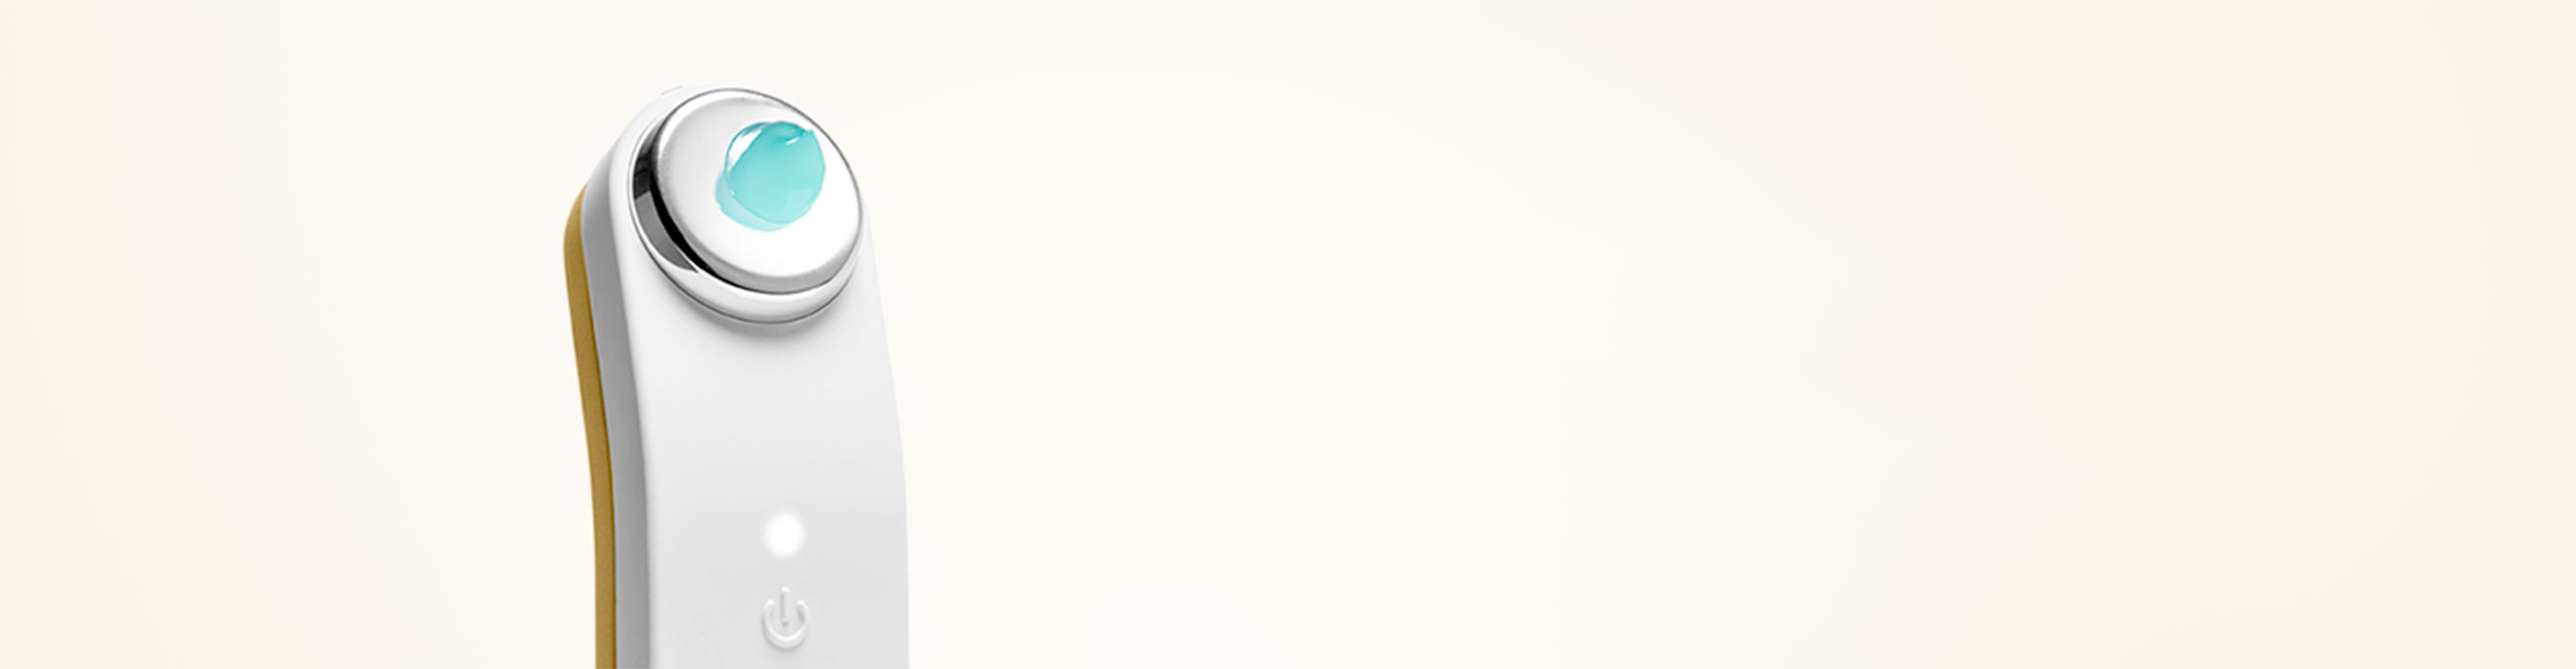
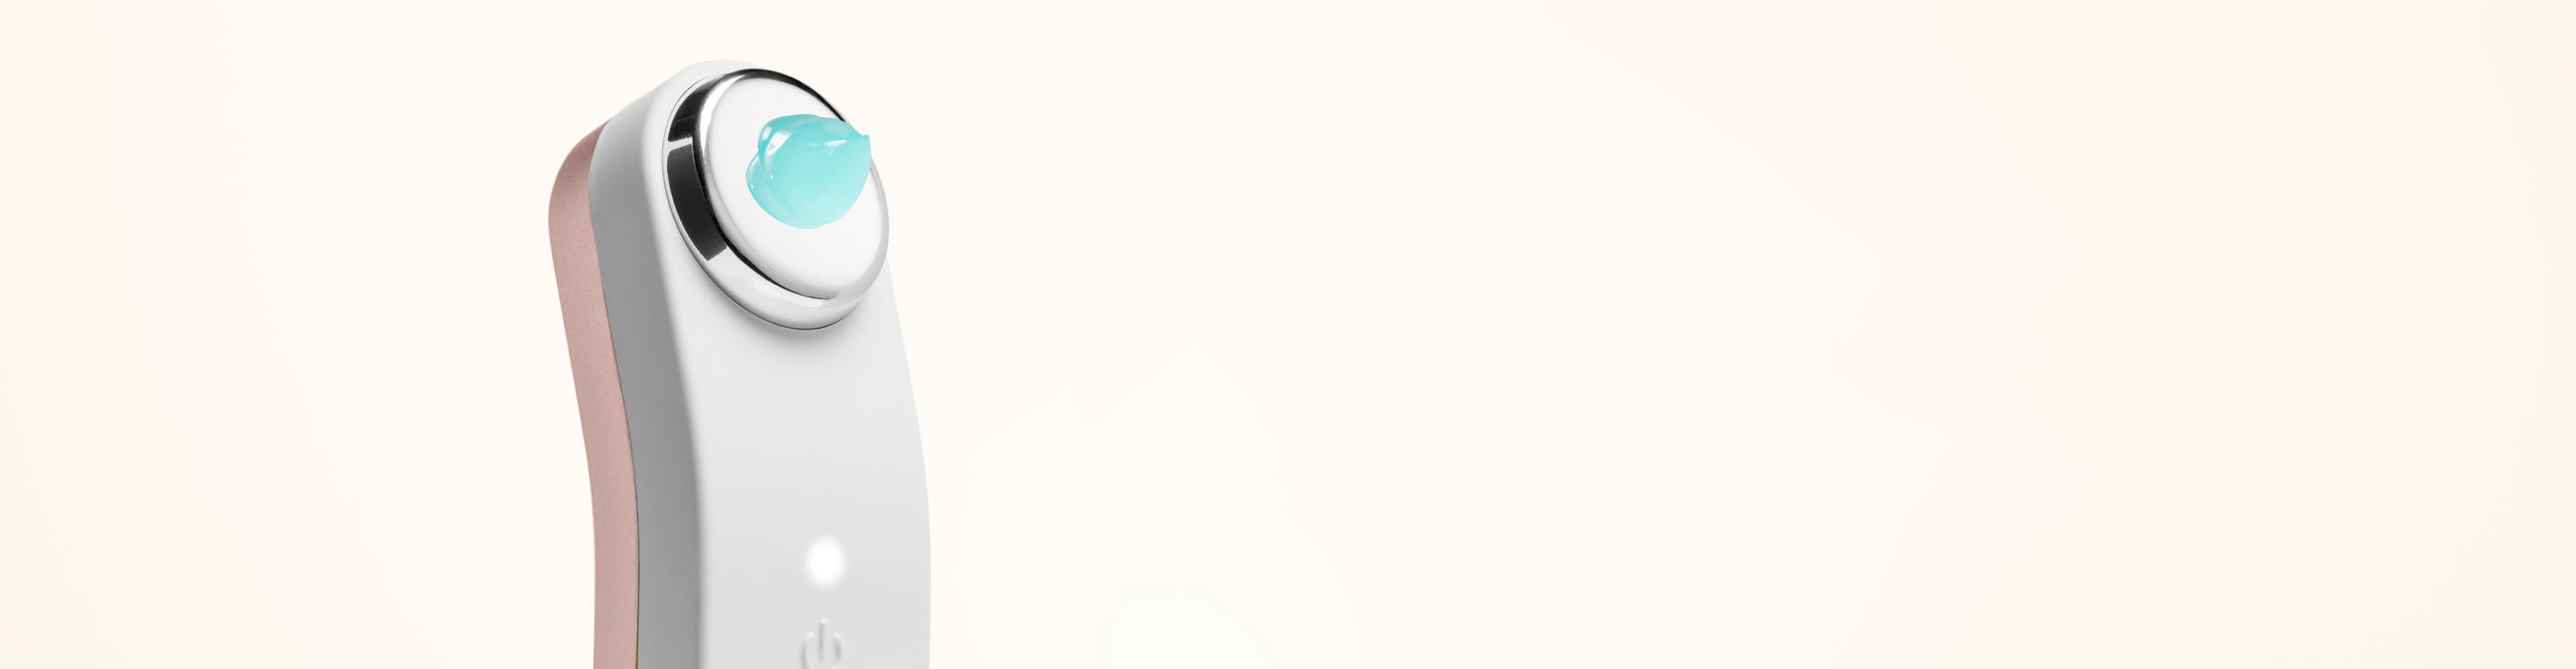
re rose gold site refresh
- image updates
- css updates

Changed region(s): [[0.1867, 0.0897, 0.3733, 1.0]]

diff --git a/skin/frontend/zonda/default/css/styles-zonda.css b/skin/frontend/zonda/default/css/styles-zonda.css
@@ -796,7 +796,7 @@ button.button span.name {
 }
 .footer-main ul li.phone,
 .footer-main ul li.phone a[href^=tel] {
-    color: #aa8436;
+    color: #d19a8c;
     font-weight: bold;
 }
 .footer-main .privacy-terms {
@@ -1284,7 +1284,7 @@ button.button span.name {
 }
 .ratings .rating-box {
   width: 80px;
-  background: url(../images/bkg-rating-gold.png) repeat-x 0 0;
+  background: url(../images/bkg-rating-rosegold.png) repeat-x 0 0;
   height: 15px;
   line-height: 0;
   overflow: hidden;
@@ -1295,7 +1295,7 @@ button.button span.name {
     background-size: 16px auto;
 }
 .rating-box .rating {
-  background: url(../images/bkg-rating-gold.png) repeat-x 0 100%;
+  background: url(../images/bkg-rating-rosegold.png) repeat-x 0 100%;
   height: 15px;
     background-size: 16px auto;
 }
@@ -1937,7 +1937,7 @@ a.highlight-link {
 
 .product-view .reviews-summary-wrap .rating-box {
     float: right;
-    background: url("../images/bkg-rating-lg-gold.png") repeat-x scroll 0 0 rgba(0, 0, 0, 0);
+    background: url("../images/bkg-rating-lg-rosegold.png") repeat-x scroll 0 0 rgba(0, 0, 0, 0);
     display: inline-block;
     height: 37px;
     line-height: 0;
@@ -1949,7 +1949,7 @@ a.highlight-link {
 }
 
 .product-view .reviews-summary-wrap .rating-box .rating {
-    background: url("../images/bkg-rating-lg-gold.png") repeat-x scroll 0 100% rgba(0, 0, 0, 0);
+    background: url("../images/bkg-rating-lg-rosegold.png") repeat-x scroll 0 100% rgba(0, 0, 0, 0);
     height: 37px;
     background-size: 40px auto;
 }
@@ -2811,7 +2811,7 @@ td.for-desktop {
 .checkout-cart-index .btn-continue, .checkout-cart-index .btn-update {
   background: transparent;
   font-size: 16px;
-  color: #a98236;
+    color: #d19a8c;
   text-transform: none;
 }
 .checkout-cart-index .btn-continue {
@@ -3597,7 +3597,7 @@ div.cart-empty {
 }
 /* new home page */
 .homepage-button-cta {
-    background: #c0a879;
+    background: #d19a8c;
     color: #fff;
     display: inline-block;
     font-family: "Lato", "Helvetica Neue", Helvetica, Arial, sans-serif;
@@ -3612,7 +3612,7 @@ div.cart-empty {
 }
 
 .homepage-section-lto .homepage-button-cta {
-    background: #c0a879;
+    background: #d19a8c;
 }
 
 .homepage-button-cta:after {
@@ -3628,7 +3628,7 @@ div.cart-empty {
 
 .homepage-button-cta:hover {
     color: #fff;
-    background: #8d6a26;
+    background: #be8677;
     text-decoration: none;
 }
 
@@ -3699,12 +3699,12 @@ div.cart-empty {
 }
 
 #slide-2 {
-    background: url("../images/homepage-hero-banner-2-desktop2.jpg") no-repeat center bottom #d0b698;
+    background: url("../images/homepage-hero-banner-2-desktop2.jpg") no-repeat center bottom #ffd9cc;
     background-size: auto 100%;
 }
 
 #slide-3 {
-    background: url("../images/homepage-hero-forbes2.jpg") no-repeat center top #abc7d5;
+    background: url("../images/homepage-hero-forbes2.jpg") no-repeat center top #9bb6cc;
     background-size: auto 100%;
 }
 
@@ -3778,20 +3778,20 @@ div.cart-empty {
 
 #slide-1 .homepage-button-cta,
 #slide-2 .homepage-button-cta {
-    background: #a98236;
+    background: #222;
 }
 
 #slide-1 .homepage-button-cta:hover,
 #slide-2 .homepage-button-cta:hover {
-    background: #8d6a26;
+    background: #000;
 }
 
 #slide-3 .homepage-button-cta {
-    background: #6197c9;
+    background: #222;
 }
 
 #slide-3 .homepage-button-cta:hover {
-    background: #3d71a1;
+    background: #000;
 }
 
 .homepage-hero-banner--copy p {
@@ -3924,7 +3924,7 @@ ul.homepage-content-worksgreat-list ul {
 }
 
 .homepage-content-worksgreat-list ul li:before {
-    color: #a98236;
+    color: #d19a8c;
     content: "+";
     font-weight: 600;
     height: 28px;
@@ -3967,7 +3967,7 @@ ul.homepage-content-worksgreat-list ul {
 }
 
 .homepage-section-lto-content .homepage-heading h3 .special {
-    color: #c0a879;
+    color: #d19a8c;
 }
 
 .homepage-section-lto-content p {
@@ -4406,7 +4406,7 @@ ul.homepage-content-worksgreat-list ul {
   display: block;
   width: 49px;
   height: 49px;
-  background: url(../images/backtotop-gold.png) no-repeat left top;
+    background: url(../images/backtotop-rosegold.png) no-repeat left top;
   background-size: auto 49px;
   text-indent: -999em;
 }
@@ -5168,7 +5168,7 @@ div.menu a, #nav li a, #blog_nav li a, #nav-links a {
     overflow: hidden;
 }
 .catalog-product-view #affirm-learn-more span {
-    color:#a98236;
+    color:#d19a8c;
 }
 .catalog-product-view #affirm-learn-more .affirm-logo {
     width: auto;
@@ -5200,7 +5200,7 @@ div.menu a, #nav li a, #blog_nav li a, #nav-links a {
 }
 
 .cms-wrapper a {
-    color: #a98236;
+    color: #d19a8c;
     outline: none;
 }
 
@@ -5246,14 +5246,14 @@ div.menu a, #nav li a, #blog_nav li a, #nav-links a {
 
 .refurbished-faqs-container .refurb-cta .button {
     background-color: #fff;
-    border: 1px solid #c0a879;
+    border: 1px solid #d19a8c;
     padding: 0 24px;
     margin-top: 12px;
     color: #333;
 }
 
 .refurbished-faqs-container .refurb-cta .button:hover {
-    background: #c0a879;
+    background: #d19a8c;
     color: #fff;
 }
 
@@ -5426,7 +5426,7 @@ div.menu a, #nav li a, #blog_nav li a, #nav-links a {
 }
 
 .results-section-hero {
-    background: url("../images/results-banner.jpg") no-repeat center #dfd0b3;
+    background: url("../images/results-banner.jpg") no-repeat center #eadec8;
     background-size: auto 100%;
     height: 340px;
     width: 100%;
@@ -6381,7 +6381,7 @@ h2.jenu-howitworks-header-h2 strong {
   overflow: hidden;
 }
 .jenu-howitworks-body-features .howitworks-blue-plus {
-  color: #a98236;
+    color: #d19a8c;
 }
 .howitworks-bottomcopy {
     font-size: 14px;
@@ -6623,7 +6623,7 @@ h2.jenu-howitworks-header-h2 strong {
 .cms-international-ordering-and-shipping .cslinks-left .cslinks li.international-ordering-and-shipping a,
 .cms-privacy-policy .cslinks-left .cslinks li.privacy-policy a,
 .cms-terms-and-conditions .cslinks-left .cslinks li.terms-and-conditions a {
-    color: #a98236;
+    color: #d19a8c;
 }
 
 .cms-faqs .cslinks-left .cslinks li.faqs a:hover,

diff --git a/skin/frontend/zonda/default/css/store_default.css b/skin/frontend/zonda/default/css/store_default.css
@@ -19,10 +19,10 @@ h6,
     color: #333;
 }
 a {
-    color: #a98236;
+    color: #d19a8c;
 }
 a:hover {
-    color: #8b651b;
+    color: #be8677;
 }
 .button,
 .sbToggle,
@@ -30,14 +30,14 @@ a:hover {
 .pager .pages ol li.current,
 .button-normal {
     display: inline-block;
-    background-color: #a98236;
+    background-color: #222;
     font-family: "Lato","Helvetica Neue", Helvetica, Arial, sans-serif;
     color: #ffffff;
     font-size: 13px;
     text-transform: uppercase;
 }
 .cms-no-route .main-content .form-search .input-text {
-    border: solid 1px #0067aa;
+    border: solid 1px #be8677;
 }
 .pager .pages ol li a {
     color: #ffffff;
@@ -51,14 +51,14 @@ a:hover {
 .btn-remove2:hover,
 .btn-remove:hover
 {
-    background-color: #926e28;
+    background-color: #000;
     color: #ffffff;
 }
 .button.link-wishlist:hover,
 .button.link-wishlist:focus,
 .button.link-compare:hover,
 .button.link-compare:focus {
-    background-color: #926e28;
+    background-color: #000;
 }
 .pager .pages ol li a:hover,
 .pager .pages ol li a:focus {
@@ -287,7 +287,7 @@ div.menu.active a,
 #blog_nav>li.active>a,
 #blog_nav>li.over>a
 {
-    color: #a98236;
+    color: #d19a8c;
     background-color: #ffffff;
     background-image: none;
 }
@@ -339,7 +339,7 @@ div.eternal-custom-menu-popup a.level1,
 #nav ul li.level1 a,
 #blog_nav ul li.level1 a{
     font-size: 13px;
-    color: #a98236;
+    color: #d19a8c;
 }
 div.eternal-custom-menu-popup a.level2,
 .menu-mobile a.level2,
@@ -362,7 +362,7 @@ div.eternal-custom-menu-popup a.level1:hover,
 .menu-mobile a.level1:hover,
 div.eternal-custom-menu-popup a.level2:hover,
 .menu-mobile a.level2:hover{
-    color: #a98236;
+    color: #d19a8c;
 }
 #menu-button .btn-navbar .icon-bar {
     background-color: #a1abb3;
@@ -467,12 +467,12 @@ div.eternal-custom-menu-popup a.level2:hover,
 }
 .footer-main a:hover,
 .footer-main a:focus {
-    color: #0067aa;
+    color: #be8677;
     padding-left: 5px;
 }
 .footer-top a:hover,
 .footer-top a:focus {
-    color: #0067aa;
+    color: #be8677;
     padding-left: 5px;
 }
 .footer-top .fblike-box a:hover,
@@ -483,11 +483,11 @@ div.eternal-custom-menu-popup a.level2:hover,
 }
 .footer-top #twitter-footer-slider a,
 .footer-main .fblike-box .facebook-like-wrap a {
-    color: #0067aa;
+    color: #be8677;
 }
 .footer-main #twitter-footer-slider a,
 .footer-main .fblike-box .facebook-like-wrap a {
-    color: #0067aa;
+    color: #be8677;
 }
 .footer address{
     font-size: 13px;

diff --git a/skin/frontend/zonda/default/css/eternal/custommenu.css b/skin/frontend/zonda/default/css/eternal/custommenu.css
@@ -415,10 +415,14 @@ div.eternal-custom-menu-popup a.level1,
 
 #nav .submega-links a {
     padding: 0;
-    margin-bottom: 16px;
+    margin-top: 16px;
     display: block;
     width: auto;
     clear: both;
+}
+
+#nav .submega-links a:first-child {
+    margin-top: 0;
 }
 
 #nav .submega-links a span {
@@ -454,7 +458,7 @@ div.eternal-custom-menu-popup a.level1,
 
 #nav .submega-right a.submega-cta {
     width: auto;
-    color: #a98236;
+    color: #d19a8c;
     text-transform: uppercase;
     font-size: 11px;
     padding: 0;
@@ -474,6 +478,7 @@ div.eternal-custom-menu-popup a.level1,
     width: 265px;
     height: 263px;
     background: url('/skin/frontend/zonda/default/images/header-thumb-wand.jpg') no-repeat top;
+    background-size: 265px auto;
 }
 
 #nav .submega-right.submega-right-shop .submega-right-shop-inner {

diff --git a/skin/frontend/base/default/js/amasty/amconf/css/amconf.css b/skin/frontend/base/default/js/amasty/amconf/css/amconf.css
@@ -19,10 +19,6 @@
     border-radius: 50%;
 }
 
-em{
-     color:red;
- }
-
 .product-image img#amasty_zoom:nth-child(2){
     display: none;
 } 
